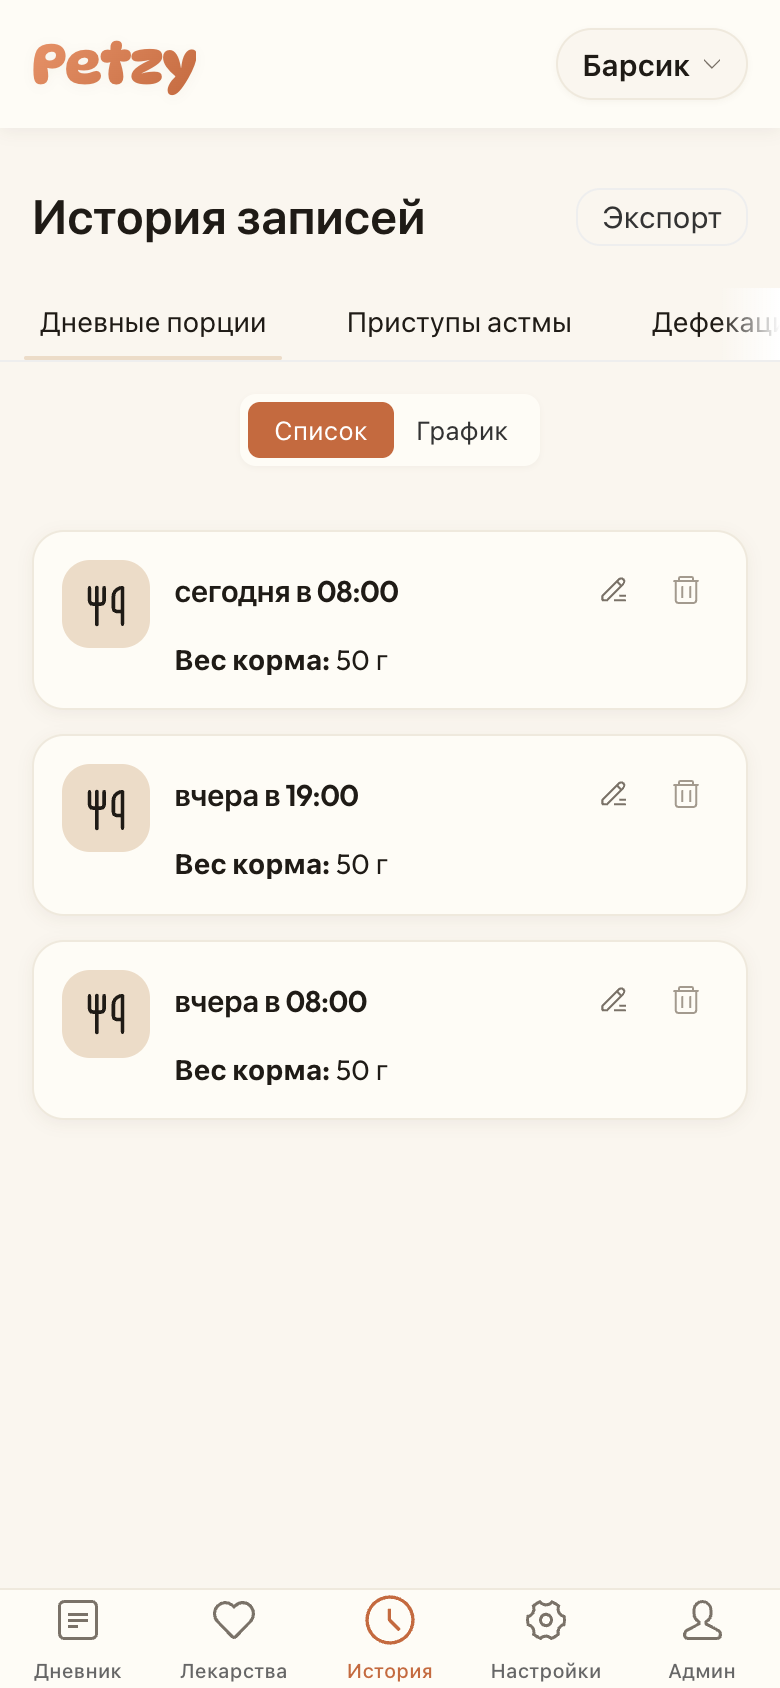
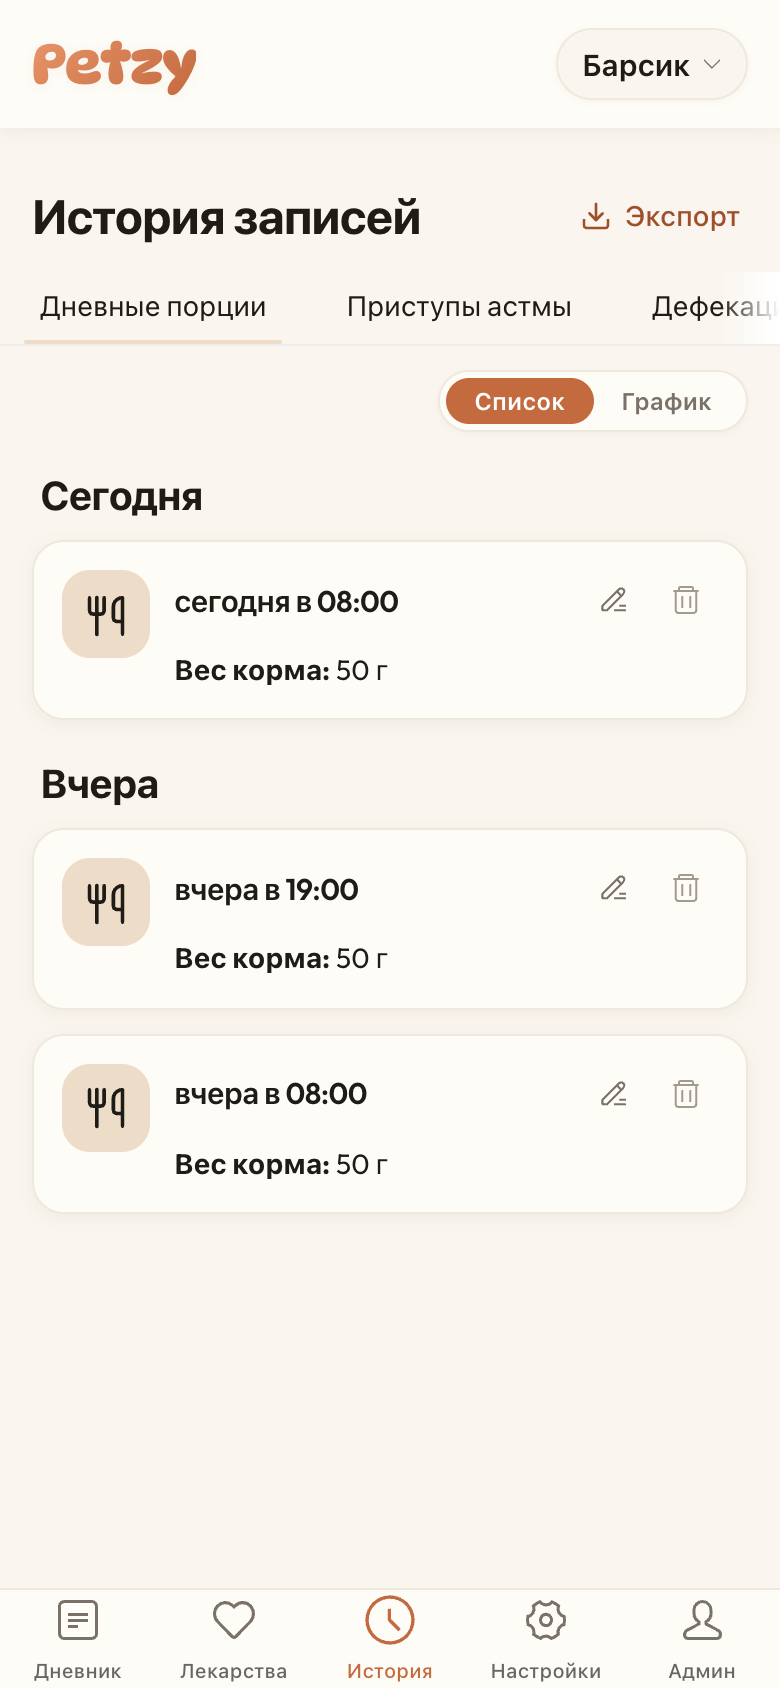
fix(ui): declutter History page — smaller title, quiet export, segmented view pill, date grouping
- Shrink page title to 24px display-headline (was 32px section heading)
- Demote 'Экспорт' from primary button to quiet text+Download icon,
  matching Navbar's quiet-link style
- Replace antd-mobile Segmented with inline pill-shaped toggle
  (right-aligned, flush against content) — clearer visual grouping
- Group history items by date with Сегодня / Вчера / DD.MM.YYYY
  headers (mirrors Dashboard timeline structure)
- Light haptic on tab change and view-mode toggle
- Skeleton + PullToRefresh preserved

diff --git a/frontend/src/pages/History.tsx b/frontend/src/pages/History.tsx
@@ -1,6 +1,7 @@
 import { useState, useEffect, useMemo } from 'react';
 import { useSearchParams } from 'react-router-dom';
 import { Tabs, Button } from 'antd-mobile';
+import { Download } from 'lucide-react';
 import { usePet } from '../hooks/usePet';
 import { historyConfig } from '../utils/historyConfig';
 import { HistoryTab } from '../components/HistoryTab';
@@ -9,6 +10,7 @@ import { ExportModal } from '../components/ExportModal';
 import { usePetTilesSettings } from '../hooks/usePetTilesSettings';
 import { tilesConfig } from '../utils/tilesConfig';
 import { pastelColorMap } from '../utils/constants';
+import { hapticFeedback } from '../utils/haptic';
 
 export function History() {
   const { selectedPetId } = usePet();
@@ -56,8 +58,14 @@ export function History() {
 
   // Обновляем URL при изменении вкладки
   const handleTabChange = (key: string) => {
+    hapticFeedback('light');
     setActiveTab(key);
     setSearchParams({ tab: key });
+  };
+
+  const handleViewModeChange = (mode: 'list' | 'chart') => {
+    hapticFeedback('light');
+    setViewMode(mode);
   };
 
   if (!selectedPetId) {
@@ -72,28 +80,44 @@ export function History() {
     <div className="page-container">
       <div className="max-width-container">
         <div className="safe-area-padding" style={{
-          marginBottom: 'var(--spacing-lg)',
+          marginBottom: 'var(--spacing-sm)',
           display: 'flex',
           justifyContent: 'space-between',
           alignItems: 'center',
           minHeight: '40px',
         }}>
-          <h2 style={{ fontSize: 'var(--text-xxl)', margin: 0, fontWeight: 600, color: 'var(--app-text-color)' }}>История записей</h2>
-          <Button
-            size="small"
-            fill="outline"
-            onClick={() => setExportVisible(true)}
-            style={{ borderColor: 'var(--adm-color-border)' }}
+          <h1
+            className="display-headline"
+            style={{ fontSize: '24px', margin: 0 }}
           >
+            История записей
+          </h1>
+          <button
+            type="button"
+            onClick={() => setExportVisible(true)}
+            style={{
+              background: 'transparent',
+              border: 'none',
+              color: 'var(--app-accent-deep)',
+              fontWeight: 500,
+              fontSize: 'var(--text-sm)',
+              cursor: 'pointer',
+              padding: '8px 4px',
+              display: 'flex',
+              alignItems: 'center',
+              gap: 6,
+            }}
+          >
+            <Download size={16} strokeWidth={2} style={{ display: 'block' }} />
             Экспорт
-          </Button>
+          </button>
         </div>
 
         <Tabs
           activeKey={activeTab}
           onChange={handleTabChange}
           style={{
-            marginBottom: 'var(--spacing-lg)',
+            marginBottom: 'var(--spacing-md)',
             '--active-line-color': pastelColorMap[tabs.find(t => t.key === activeTab)?.color || 'blue'] || 'var(--tile-blue)',
             '--active-title-color': 'var(--app-text-color)',
             '--title-font-size': 'var(--text-sm)',
@@ -109,38 +133,55 @@ export function History() {
           ))}
         </Tabs>
 
-        {/* View mode toggle */}
+        {/* View mode toggle — compact pill, sits flush right */}
         <div style={{
           display: 'flex',
-          justifyContent: 'center',
-          marginBottom: 'var(--spacing-lg)',
-          padding: `0 var(--spacing-lg)`
+          justifyContent: 'flex-end',
+          marginBottom: 'var(--spacing-md)',
+          padding: `0 var(--spacing-lg)`,
         }}>
           <div style={{
             display: 'flex',
             backgroundColor: 'var(--app-card-background)',
-            padding: 'var(--spacing-xs)',
-            borderRadius: 'var(--radius-sm)',
-            boxShadow: 'var(--app-shadow-light)'
+            padding: 3,
+            borderRadius: '999px',
+            boxShadow: 'var(--app-shadow-light)',
+            border: '1px solid var(--app-border-color)',
           }}>
-            <Button
-              size="mini"
-              fill={viewMode === 'list' ? 'solid' : 'none'}
-              color={viewMode === 'list' ? 'primary' : 'default'}
-              onClick={() => setViewMode('list')}
-              style={{ borderRadius: '6px', padding: `var(--spacing-xs) var(--spacing-md)` }}
+            <button
+              type="button"
+              onClick={() => handleViewModeChange('list')}
+              style={{
+                background: viewMode === 'list' ? 'var(--app-primary-color)' : 'transparent',
+                color: viewMode === 'list' ? '#FFFFFF' : 'var(--app-text-secondary)',
+                border: 'none',
+                borderRadius: '999px',
+                padding: '4px 14px',
+                fontSize: 'var(--text-xs)',
+                fontWeight: 600,
+                cursor: 'pointer',
+                transition: 'all 180ms ease',
+              }}
             >
               Список
-            </Button>
-            <Button
-              size="mini"
-              fill={viewMode === 'chart' ? 'solid' : 'none'}
-              color={viewMode === 'chart' ? 'primary' : 'default'}
-              onClick={() => setViewMode('chart')}
-              style={{ borderRadius: '6px', padding: `var(--spacing-xs) var(--spacing-md)` }}
+            </button>
+            <button
+              type="button"
+              onClick={() => handleViewModeChange('chart')}
+              style={{
+                background: viewMode === 'chart' ? 'var(--app-primary-color)' : 'transparent',
+                color: viewMode === 'chart' ? '#FFFFFF' : 'var(--app-text-secondary)',
+                border: 'none',
+                borderRadius: '999px',
+                padding: '4px 14px',
+                fontSize: 'var(--text-xs)',
+                fontWeight: 600,
+                cursor: 'pointer',
+                transition: 'all 180ms ease',
+              }}
             >
               График
-            </Button>
+            </button>
           </div>
         </div>
 

diff --git a/frontend/src/components/HistoryTab.tsx b/frontend/src/components/HistoryTab.tsx
@@ -1,3 +1,4 @@
+import { useMemo } from 'react';
 import { useInfiniteQuery } from '@tanstack/react-query';
 import { Button, PullToRefresh } from 'antd-mobile';
 import { healthRecordsService } from '../services/healthRecords.service';
@@ -11,6 +12,24 @@ interface HistoryTabProps {
   type: string;
   petId: string;
   activeTab: string;
+}
+
+/** Format a YYYY-MM-DD dateStr as a friendly Russian relative or absolute label. */
+function formatDateHeader(dateStr: string): string {
+  const parts = dateStr.split('-');
+  if (parts.length !== 3) return dateStr;
+
+  const today = new Date();
+  const yesterday = new Date(today);
+  yesterday.setDate(today.getDate() - 1);
+
+  const pad = (n: number) => n.toString().padStart(2, '0');
+  const todayStr = `${today.getFullYear()}-${pad(today.getMonth() + 1)}-${pad(today.getDate())}`;
+  const yesterdayStr = `${yesterday.getFullYear()}-${pad(yesterday.getMonth() + 1)}-${pad(yesterday.getDate())}`;
+
+  if (dateStr === todayStr) return 'Сегодня';
+  if (dateStr === yesterdayStr) return 'Вчера';
+  return `${parts[2]}.${parts[1]}.${parts[0]}`;
 }
 
 export function HistoryTab({ type, petId, activeTab }: HistoryTabProps) {
@@ -44,6 +63,20 @@ export function HistoryTab({ type, petId, activeTab }: HistoryTabProps) {
     initialPageParam: 1
   });
 
+  // Group items by date — gives the list the same structural
+  // readability as the dashboard timeline.
+  const groupedItems = useMemo(() => {
+    const allItems = data?.pages.flatMap(page => page.items) || [];
+    const groups: Record<string, any[]> = {};
+    for (const item of allItems) {
+      const dateStr = String(item.date_time ?? '').split(' ')[0];
+      if (!groups[dateStr]) groups[dateStr] = [];
+      groups[dateStr].push(item);
+    }
+    // Sort date keys desc so most-recent day shows first.
+    return Object.entries(groups).sort(([a], [b]) => b.localeCompare(a));
+  }, [data]);
+
   const content = (() => {
     if (isLoading) {
       return (
@@ -63,9 +96,7 @@ export function HistoryTab({ type, petId, activeTab }: HistoryTabProps) {
       );
     }
 
-    const allItems = data?.pages.flatMap(page => page.items) || [];
-
-    if (allItems.length === 0) {
+    if (groupedItems.length === 0) {
       return (
         <p style={{ color: 'var(--app-text-secondary)', textAlign: 'center', padding: '32px 0' }}>
           Нет записей
@@ -75,17 +106,33 @@ export function HistoryTab({ type, petId, activeTab }: HistoryTabProps) {
 
     return (
       <>
-        {allItems.map((item, index) => (
-          <div
-            key={item._id}
-            className={`animate-slide-up animate-stagger-${Math.min(index + 1, 6)}`}
-          >
-            <HistoryItem
-              item={item}
-              config={config}
-              type={type}
-              activeTab={activeTab}
-            />
+        {groupedItems.map(([dateStr, itemsForDate]) => (
+          <div key={dateStr} style={{ marginBottom: 'var(--spacing-lg)' }}>
+            <h3
+              className="section-header"
+              style={{
+                marginBottom: '10px',
+                paddingLeft: 4,
+              }}
+            >
+              {formatDateHeader(dateStr)}
+            </h3>
+
+            <div style={{ display: 'flex', flexDirection: 'column', gap: '12px' }}>
+              {itemsForDate.map((item: any, index: number) => (
+                <div
+                  key={item._id}
+                  className={`animate-slide-up animate-stagger-${Math.min(index + 1, 6)}`}
+                >
+                  <HistoryItem
+                    item={item}
+                    config={config}
+                    type={type}
+                    activeTab={activeTab}
+                  />
+                </div>
+              ))}
+            </div>
           </div>
         ))}
 
@@ -106,7 +153,7 @@ export function HistoryTab({ type, petId, activeTab }: HistoryTabProps) {
               disabled={isFetchingNextPage}
               loading={isFetchingNextPage}
             >
-              {isFetchingNextPage ? 'Загрузка...' : 'Загрузить еще'}
+              {isFetchingNextPage ? 'Загрузка...' : 'Загрузить ещё'}
             </Button>
           </div>
         )}
@@ -125,14 +172,13 @@ export function HistoryTab({ type, petId, activeTab }: HistoryTabProps) {
       <div style={{
         display: 'flex',
         flexDirection: 'column',
-        gap: '12px',
+        gap: '4px',
         paddingLeft: 'max(16px, env(safe-area-inset-left))',
         paddingRight: 'max(16px, env(safe-area-inset-right))',
-        paddingTop: '16px'
+        paddingTop: '8px'
       }}>
         {content}
       </div>
     </PullToRefresh>
   );
 }
-
